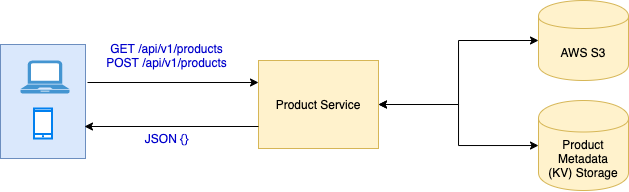
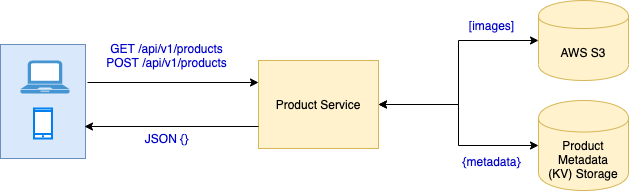
Updated Product API Flow

diff --git a/README.md b/README.md
@@ -19,25 +19,3 @@ Project to manage code for kudratt.ca
   - [img](designs/img)
 - [Makefile](Makefile)
 - [main.py](app/main.py)
-
-
-### Product schema
-
-- Product Metadata
-  - [ ] Product Name
-  - [ ] Product Description
-  - [ ] Product URL
-  - [ ] Product Images (List)
-  - [ ] Product Price
-  - [ ] Product Availability
-  - [ ] Product Currency
-  - [ ] Product Category
-  - [ ] Product Tags
-  - [ ] Product Keywords
-  - [ ] Product Short Description
-  - [ ] Product Long Description
-  - [ ] Product Available sizes (List)
-  - [ ] Product Material Category (List)
-  - [ ] Product Material information
-  - [ ] Product Material weight
-  - [ ] Product Reviews (List)
